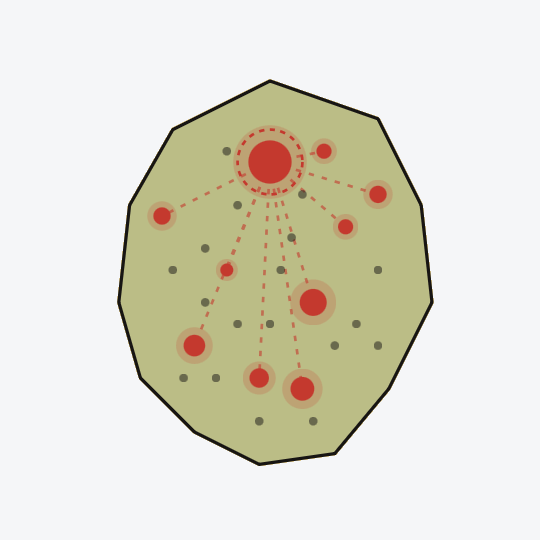
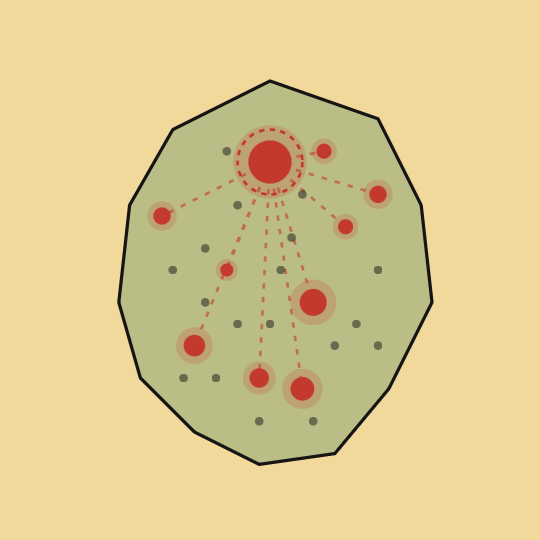
Unify publication & tracker thumbnails to beige illustration set
- Replace 5 pub + 5 tracker thumbnails with cohesive beige-background illustrations
- Switch ai-tracker/ai-exposure refs from .svg card mockups to .png illustrations
- Remove now-unused .svg pub mockups

diff --git a/membres/abergeaud.html b/membres/abergeaud.html
@@ -314,7 +314,7 @@ Direction
   </div>
 </div>
 <div class="member-pub">
-  <a class="thumb" href="../pubs/ai-tracker/"><img src="../images/pubs/ai-tracker.svg" alt=""></a>
+  <a class="thumb" href="../pubs/ai-tracker/"><img src="../images/pubs/ai-tracker.png" alt=""></a>
   <div class="meta">
     <h3 class="t anchored"><a href="../pubs/ai-tracker/">Diffusion de l'Intelligence Artificielle en France</a></h3>
     <div class="s">Working Paper — Juillet 2025</div>
@@ -322,7 +322,7 @@ Direction
   </div>
 </div>
 <div class="member-pub">
-  <a class="thumb" href="../pubs/ai-exposure/"><img src="../images/pubs/ai-exposure.svg" alt=""></a>
+  <a class="thumb" href="../pubs/ai-exposure/"><img src="../images/pubs/ai-exposure.png" alt=""></a>
   <div class="meta">
     <h3 class="t anchored"><a href="../pubs/ai-exposure/">Exposition à l'intelligence artificielle générative et emploi : une application à la classification socio-professionnelle française</a></h3>
     <div class="s">Working Paper — 2024</div>

diff --git a/membres/pdelbouve.html b/membres/pdelbouve.html
@@ -295,7 +295,7 @@ Fellow
 <h2 class="anchored" data-anchor-id="publications">Publications</h2>
 <div class="member-pubs">
 <div class="member-pub">
-  <a class="thumb" href="../pubs/ai-tracker/"><img src="../images/pubs/ai-tracker.svg" alt=""></a>
+  <a class="thumb" href="../pubs/ai-tracker/"><img src="../images/pubs/ai-tracker.png" alt=""></a>
   <div class="meta">
     <h3 class="t anchored"><a href="../pubs/ai-tracker/">Diffusion de l'Intelligence Artificielle en France</a></h3>
     <div class="s">Working Paper — Juillet 2025</div>

diff --git a/membres/sbunel.html b/membres/sbunel.html
@@ -296,7 +296,7 @@ Fellow
 <h2 class="anchored" data-anchor-id="publications">Publications</h2>
 <div class="member-pubs">
 <div class="member-pub">
-  <a class="thumb" href="../pubs/ai-tracker/"><img src="../images/pubs/ai-tracker.svg" alt=""></a>
+  <a class="thumb" href="../pubs/ai-tracker/"><img src="../images/pubs/ai-tracker.png" alt=""></a>
   <div class="meta">
     <h3 class="t anchored"><a href="../pubs/ai-tracker/">Diffusion de l'Intelligence Artificielle en France</a></h3>
     <div class="s">Working Paper — Juillet 2025</div>
